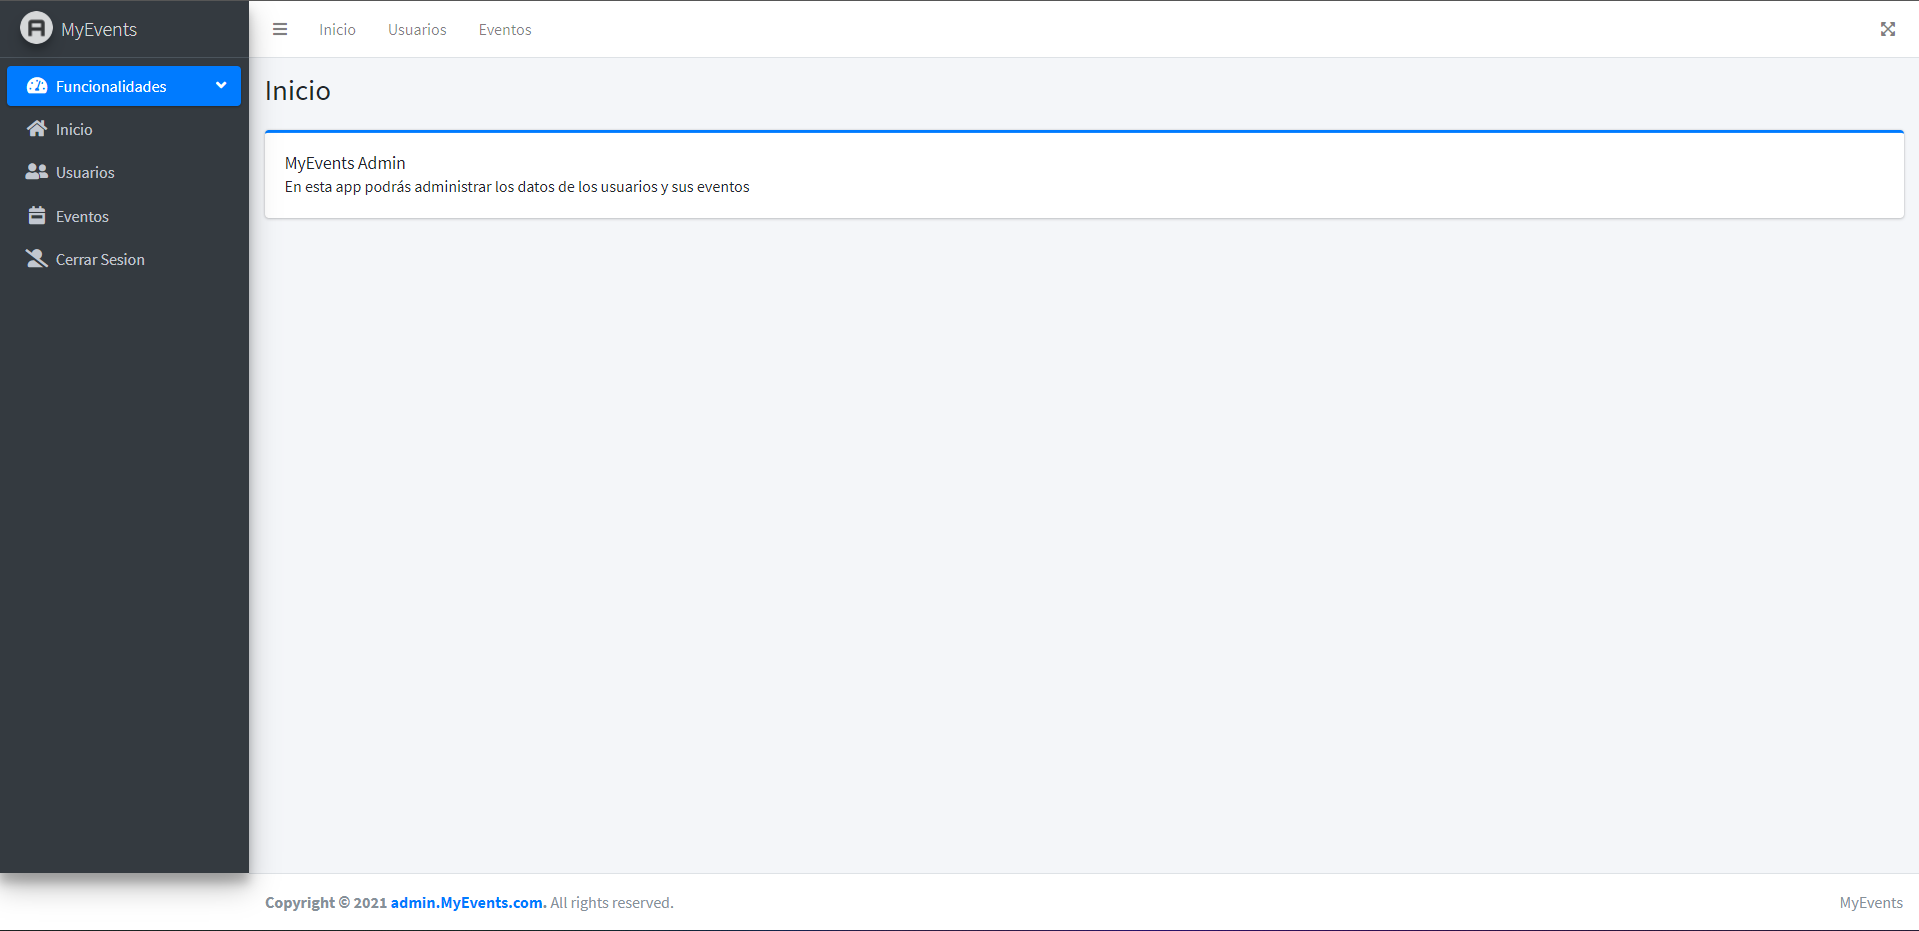
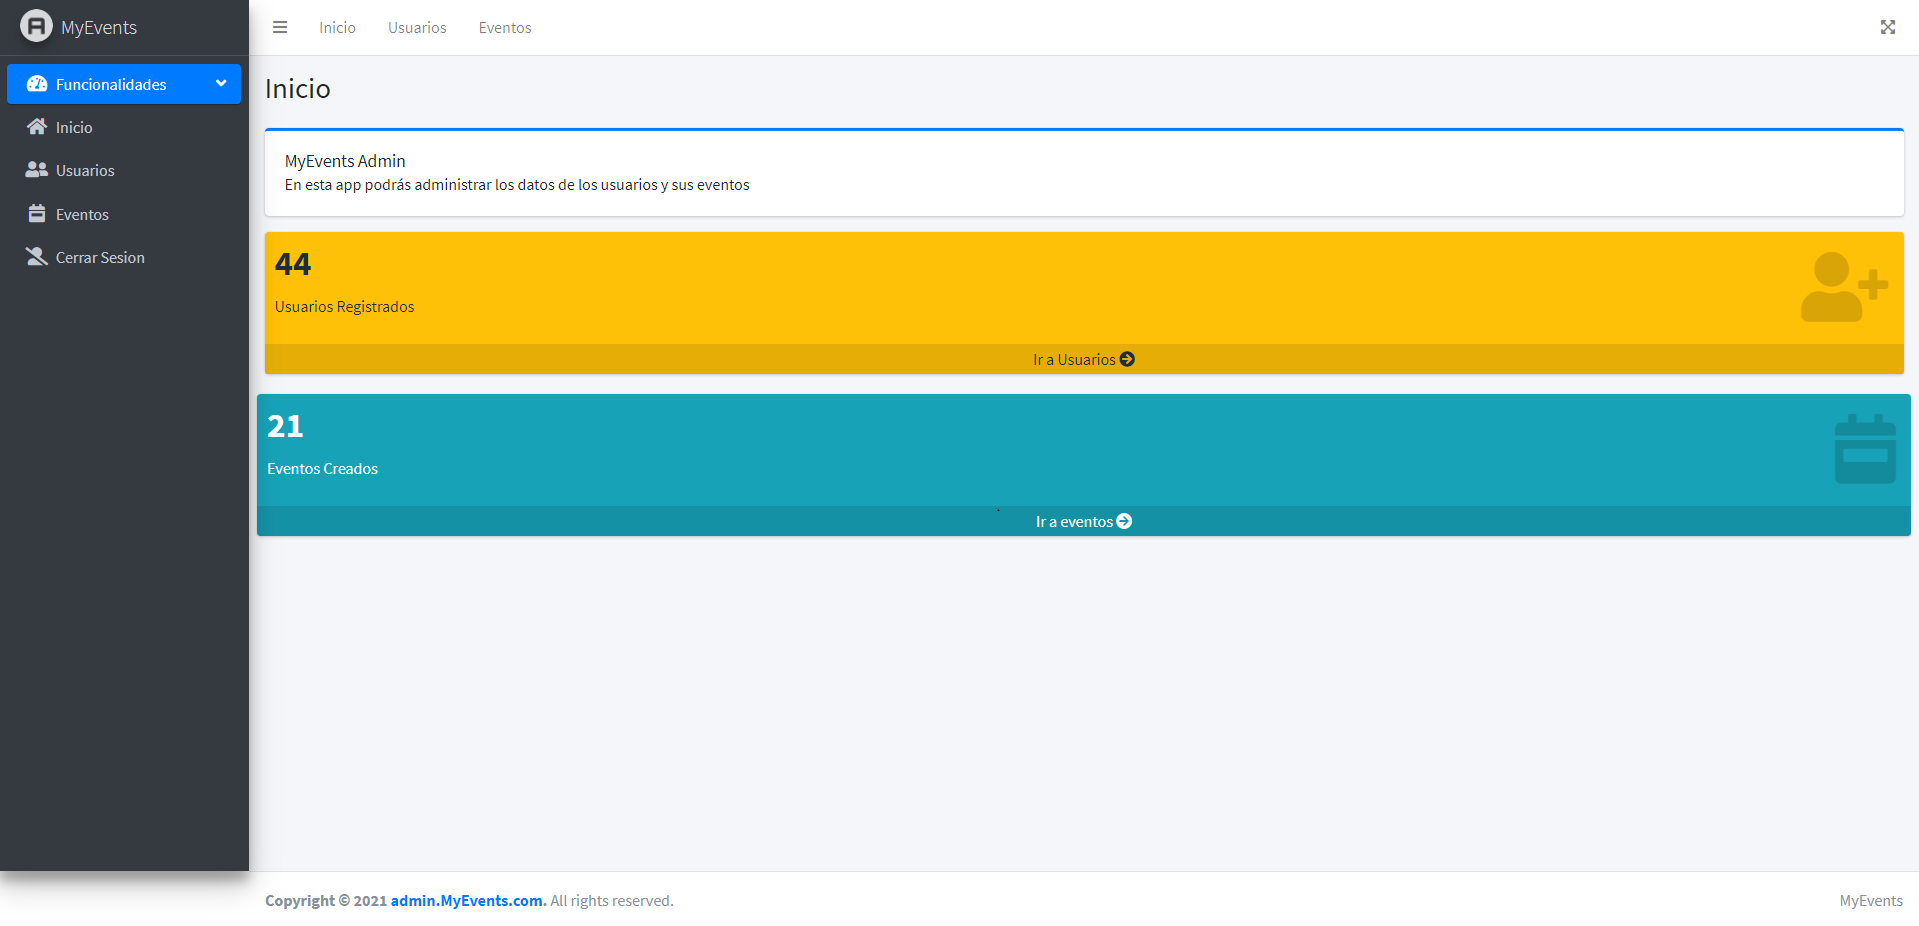
Readme Actualizacion

diff --git a/src/main/resources/templates/menu.html b/src/main/resources/templates/menu.html
@@ -123,12 +123,44 @@ scratch. This page gets rid of all links and provides the needed markup only.
             <div class="card card-primary card-outline">
               <div class="card-body">
                 <h5 class="card-title">MyEvents Admin</h5>
-
                 <p class="card-text">
                   En esta app podrás administrar los datos de los usuarios y sus eventos
                 </p>		
               </div>
             </div><!-- /.card -->
+
+			<div class="small-box bg-warning">
+              <div class="inner">
+                <h3>44</h3>
+
+                <p>Usuarios Registrados</p>
+              </div>
+              <div class="icon">
+                <i class="fas fa-user-plus"></i>
+              </div>
+              <a href="/usuarios" class="small-box-footer">
+                Ir a Usuarios <i class="fas fa-arrow-circle-right"></i>
+              </a>
+            </div>
+          </div>
+          
+          <div class="small-box bg-info">
+              <div class="inner">
+                <h3>21</h3>
+
+                <p>Eventos Creados</p>
+              </div>
+              <div class="icon">
+                <i class="fas fa-calendar-week"></i>
+              </div>
+              <a href="/eventos" class="small-box-footer">
+                Ir a eventos <i class="fas fa-arrow-circle-right"></i>
+              </a>
+            </div>
+          </div>
+
+
+
           </div>
           <!-- /.col-md-6 -->
       </div><!-- /.container-fluid -->
